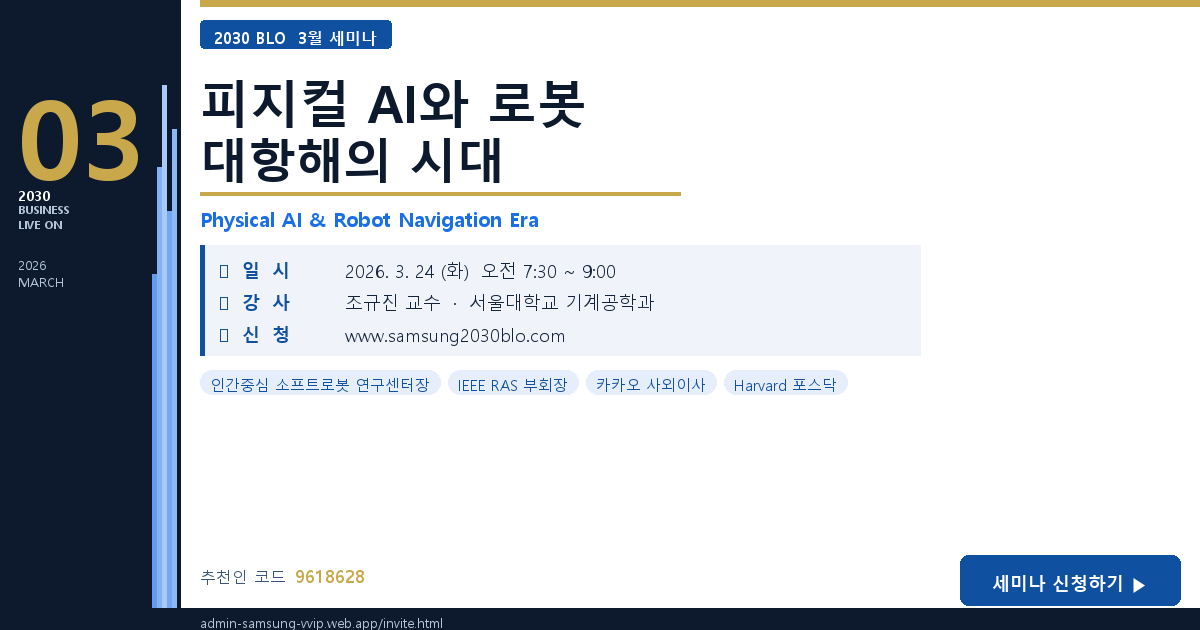
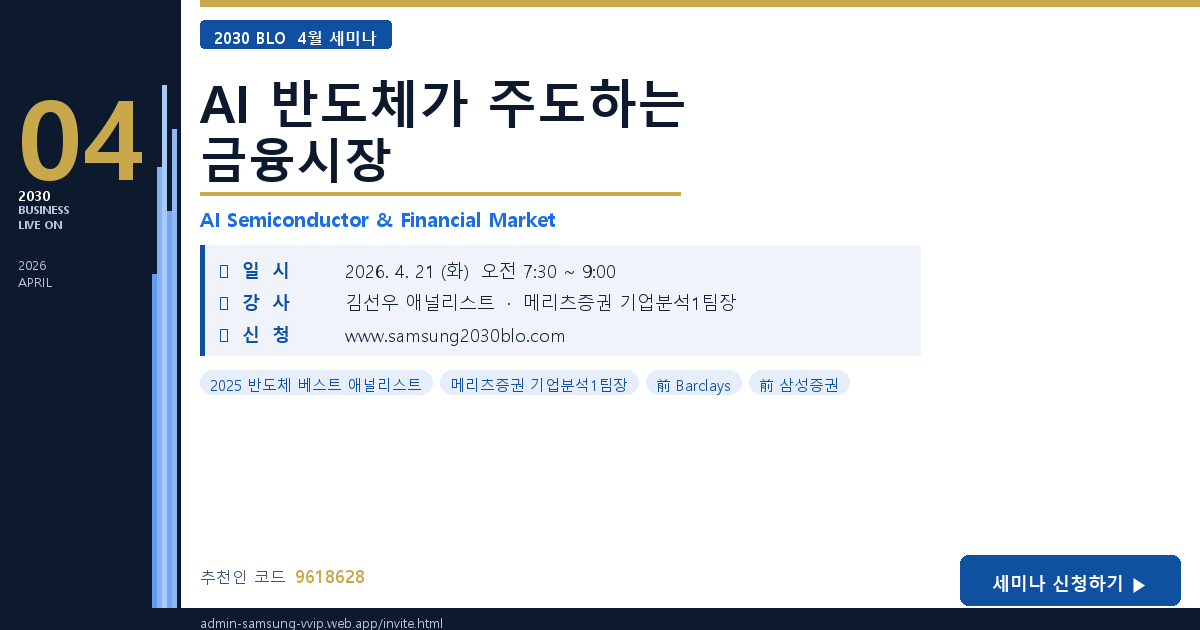
feat: 4월 OG 이미지 갱신 - AI 반도체가 주도하는 금융시장 (김선우 애널리스트)
- gen_og_image.py: 03→04, MARCH→APRIL, 강사/제목/일시 4월로 교체
- og-kakao-wide.png / og-kakao-vertical.png 재생성
- invite.html: og:image 버전 v3→v4 (카카오톡 캐시 갱신)

diff --git a/invite.html b/invite.html
@@ -7,7 +7,7 @@
 <meta property="og:title" content="AI 반도체가 주도하는 금융시장 | 2030 BLO 4월 세미나">
 <meta property="og:description" content="김선우 애널리스트 | 2026.4.21(화) 오전 7:30~9:00 | 지금 바로 신청하세요">
 <meta property="og:url" content="https://admin-samsung-vvip.web.app/invite.html">
-<meta property="og:image" content="https://admin-samsung-vvip.web.app/assets/og-kakao-wide.png?v=3">
+<meta property="og:image" content="https://admin-samsung-vvip.web.app/assets/og-kakao-wide.png?v=4">
 <meta property="og:image:width" content="1024">
 <meta property="og:image:height" content="576">
 <meta property="og:image:alt" content="AI 반도체가 주도하는 금융시장 - 2030 BLO 4월 세미나">

diff --git a/scripts/gen_og_image.py b/scripts/gen_og_image.py
@@ -159,7 +159,7 @@ def make_wide_og(out_path):
 
     # 사이드바: 월 숫자
     fnum = load_font(F_BLACK, 110)
-    draw.text((18, 60), "03", font=fnum, fill=GOLD)
+    draw.text((18, 60), "04", font=fnum, fill=GOLD)
 
     fbadge_s = load_font(F_BOLD, 14)
     fbadge_m = load_font(F_BOLD, 13)
@@ -170,7 +170,7 @@ def make_wide_og(out_path):
     # 사이드바: 연도
     fy = load_font(F_REGULAR, 13)
     draw.text((18, 255), "2026", font=fy, fill=MID_GRAY)
-    draw.text((18, 272), "MARCH", font=fy, fill=MID_GRAY)
+    draw.text((18, 272), "APRIL", font=fy, fill=MID_GRAY)
 
     # 사이드바: 세로 장식선
     for i, (h_ratio, opacity) in enumerate([(0.55, 80), (0.72, 120), (0.85, 160), (0.65, 100), (0.78, 130)]):
@@ -187,7 +187,7 @@ def make_wide_og(out_path):
 
     # BLO 뱃지
     fbadge = load_font(F_BOLD, 16)
-    badge_text = "2030 BLO  3월 세미나"
+    badge_text = "2030 BLO  4월 세미나"
     bb = draw.textbbox((0,0), badge_text, font=fbadge)
     bw = bb[2] - bb[0] + 28
     draw_rounded_rect(draw, [MX, 20, MX + bw, 48], 4, BLUE)
@@ -196,15 +196,15 @@ def make_wide_og(out_path):
     # 메인 제목 (Korean font)
     ft1 = load_font(F_BOLD, 50)
     ft2 = load_font(F_BOLD, 48)
-    draw.text((MX, 68), "피지컬 AI와 로봇", font=ft1, fill=NAVY)
-    draw.text((MX, 126), "대항해의 시대", font=ft2, fill=NAVY)
+    draw.text((MX, 68), "AI 반도체가 주도하는", font=ft1, fill=NAVY)
+    draw.text((MX, 126), "금융시장", font=ft2, fill=NAVY)
 
     # 구분선
     draw.rectangle([MX, 192, MX + 480, 195], fill=GOLD)
 
     # 부제목
     fsub = load_font(F_BOLD2, 20)
-    draw.text((MX, 205), "Physical AI & Robot Navigation Era", font=fsub, fill=LIGHT_BLUE)
+    draw.text((MX, 205), "AI Semiconductor & Financial Market", font=fsub, fill=LIGHT_BLUE)
 
     # 이벤트 정보 박스
     draw.rectangle([MX, 245, MX + 720, 355], fill=LIGHT_GRAY)
@@ -214,8 +214,8 @@ def make_wide_og(out_path):
     finfo_r = load_font(F_REGULAR, 18)
 
     info_items = [
-        ("📅  일  시", "2026. 3. 24 (화)  오전 7:30 ~ 9:00"),
-        ("🎓  강  사", "조규진 교수  ·  서울대학교 기계공학과"),
+        ("📅  일  시", "2026. 4. 21 (화)  오전 7:30 ~ 9:00"),
+        ("🎓  강  사", "김선우 애널리스트  ·  메리츠증권 기업분석1팀장"),
         ("💻  신  청", "www.samsung2030blo.com"),
     ]
     for i, (label, value) in enumerate(info_items):
@@ -225,7 +225,7 @@ def make_wide_og(out_path):
 
     # 하단: 강사 프로필 칩들
     fchip = load_font(F_REGULAR, 15)
-    chips = ["인간중심 소프트로봇 연구센터장", "IEEE RAS 부회장", "카카오 사외이사", "Harvard 포스닥"]
+    chips = ["2025 반도체 베스트 애널리스트", "메리츠증권 기업분석1팀장", "前 Barclays", "前 삼성증권"]
     cx = MX
     cy = 370
     for chip in chips:
@@ -313,10 +313,10 @@ def make_vertical_card(out_path):
         draw.text((SIDE//2 - 6, 20 + ci*18), ch, font=fb2, fill=WHITE)
 
     # 사이드바: 큰 숫자
-    draw.text((10, 70), "03", font=fmn, fill=GOLD)
+    draw.text((10, 70), "04", font=fmn, fill=GOLD)
 
     # 사이드바: 연월
-    for ci, ch in enumerate("MARCH"):
+    for ci, ch in enumerate("APRIL"):
         draw.text((SIDE//2 - 6, 178 + ci*18), ch, font=fb2, fill=MID_GRAY)
 
     # 오른쪽 헤더 콘텐츠 영역
@@ -327,17 +327,17 @@ def make_vertical_card(out_path):
     draw.text((RX+8, 22), "2030 BUSINESS LIVE ON", font=fb, fill=WHITE)
 
     # 제목 (흰 배경 위에 네이비 텍스트 → 절대 잘릴 수 없음)
-    draw.text((RX, 58),  "피지컬 AI와 로봇", font=ft,  fill=WHITE)
-    draw.text((RX, 108), "대항해의 시대",    font=ft2, fill=GOLD)
+    draw.text((RX, 58),  "AI 반도체가 주도하는", font=ft,  fill=WHITE)
+    draw.text((RX, 108), "금융시장",    font=ft2, fill=GOLD)
 
     # 부제목
     draw.rectangle([RX, 162, W-20, 164], fill=GOLD)
-    draw.text((RX, 172), "Physical AI & Robot", font=fsub, fill=WHITE)
-    draw.text((RX, 194), "Navigation Era",      font=fsub, fill=WHITE)
+    draw.text((RX, 172), "AI Semiconductor &", font=fsub, fill=WHITE)
+    draw.text((RX, 194), "Financial Market",   font=fsub, fill=WHITE)
 
     # 날짜/강사 간략 정보 (사이드바 안에)
     fi = load_font(F_REGULAR, 12)
-    draw.text((8, 300), "2026.3.24", font=fi, fill=MID_GRAY)
+    draw.text((8, 300), "2026.4.21", font=fi, fill=MID_GRAY)
     draw.text((8, 318), "07:30~", font=fi, fill=MID_GRAY)
     draw.text((8, 336), "09:00", font=fi, fill=MID_GRAY)
 
@@ -357,10 +357,10 @@ def make_vertical_card(out_path):
     draw.rectangle([24, y, W-24, y+218], fill=WHITE)
     draw.rectangle([24, y, W-24, y+4], fill=BLUE)
     card_items = [
-        ("📅 일  시", "2026. 3. 24 (화)"),
+        ("📅 일  시", "2026. 4. 21 (화)"),
         ("",          "오전 7:30 ~ 9:00 / 재방송 20:00~22:00"),
-        ("🎓 강  사", "조규진 교수"),
-        ("",          "서울대학교 기계공학과"),
+        ("🎓 강  사", "김선우 애널리스트"),
+        ("",          "메리츠증권 기업분석1팀장"),
         ("💻 신  청", "www.samsung2030blo.com"),
         ("📍 장  소", "삼성금융캠퍼스 B2F 비전홀"),
     ]
@@ -378,12 +378,12 @@ def make_vertical_card(out_path):
     y += 10
     draw.rectangle([24, y, W-24, y+148], fill=WHITE)
     draw.rectangle([24, y, 28, y+148], fill=GOLD)
-    draw.text((40, y+10), "조규진 교수",         font=fprof_t, fill=NAVY)
-    draw.text((40, y+36), "서울대학교 기계공학과", font=fprof_s, fill=BLUE)
+    draw.text((40, y+10), "김선우 애널리스트",    font=fprof_t, fill=NAVY)
+    draw.text((40, y+36), "메리츠증권 기업분석1팀장 (IT총괄)", font=fprof_s, fill=BLUE)
     for i, item in enumerate([
-        "· 인간중심 소프트로봇 연구센터장",
-        "· 카카오 사외이사  /  IEEE RAS 부회장",
-        "· Harvard Microrobotics Lab 포스닥",
+        "· 2025 반도체 부문 베스트 애널리스트",
+        "· 前 Barclays (Downstream Tech - 세트/부품)",
+        "· 前 삼성증권 (반도체/디스플레이 장비/소재)",
     ]):
         draw.text((40, y+62+i*24), item, font=fprof_r, fill=TEXT_DARK)
     y += 158
@@ -406,7 +406,7 @@ def make_vertical_card(out_path):
     for i, (num, step) in enumerate([
         ("①", "samsung2030blo.com 접속"),
         ("②", "추천인 코드 9618628 입력"),
-        ("③", "3/24 오전 7:15 생방송 입장"),
+        ("③", "4/21 오전 7:15 생방송 입장"),
     ]):
         ys = y+24+i*30
         draw_rounded_rect(draw, [24, ys, 42, ys+22], 4, BLUE)
@@ -426,7 +426,7 @@ def make_vertical_card(out_path):
     draw.text((24, y),    "오프라인 조찬세미나 문의",           font=foff_b, fill=TEXT_MID)
     draw.text((24, y+22), "📞  010-5137-2327  (박재박 팀장)",  font=foff,   fill=TEXT_DARK)
     draw.text((24, y+42), "💬  카카오톡 오픈채팅 문의 가능",    font=foff,   fill=TEXT_DARK)
-    draw.text((24, y+62), "📅  오프라인 마감: 3/19(목) 17:00", font=foff,   fill=(180,50,50))
+    draw.text((24, y+62), "📅  오프라인 마감: 4/17(금) 17:00", font=foff,   fill=(180,50,50))
 
     # 하단 바
     draw.rectangle([0, H-72, W, H], fill=NAVY)
